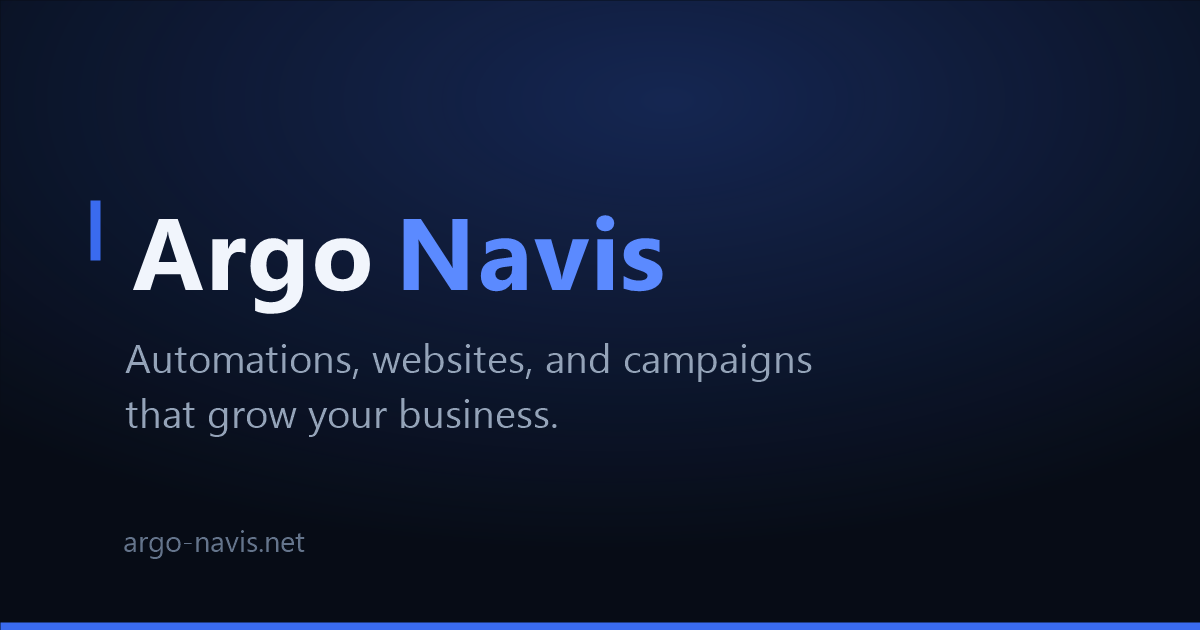
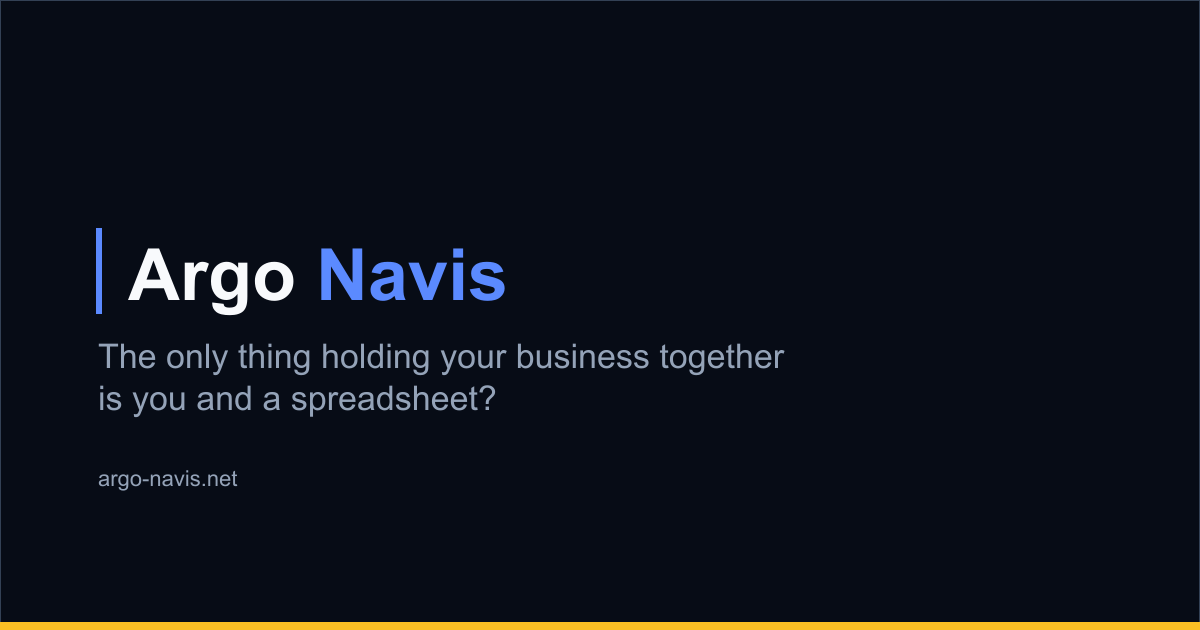
fix: LP hreflang, styleguide sitemap exclusion, real og-image, launch fixes
Two required launch-verification fixes: LandingLayout now emits
en/he/x-default hreflang alternates (was emitting none, affecting all
8 indexed LP pages); /styleguide excluded from the sitemap via the
sitemap integration's filter (was listed despite being noindexed
on-page).

Real public/og-image.png (1200x630), replacing the placeholder -
authored as SVG and rasterized with sharp, using the site's own
tokens and the actual final hero headline as its tagline.

Ship-scoped sharpening pass (audit+critique across homepage EN/HE, a
service page, an LP, and a case study EN/HE, both themes):

- Critical: the contact form's Turnstile gating required a challenge
  token even when no site key was configured to produce one -
  potentially blocking every lead on the site. Both the client
  (ContactForm.astro) and server (api/leads.ts) now only require
  verification when a site key/secret actually exists.
- High: contact-details input had no accessible label; added one.
  API error messages are now bilingual (EN/HE) via the source tag,
  matching the email templates' existing localization.
- Medium: form-error text and two prose/link spots had unguarded
  text-brand-400/text-red-400 failing WCAG AA in light theme (same
  fixed-hex-in-one-theme pattern already fixed elsewhere); two
  interactive elements on surface-900 backgrounds were missing the
  focus-ring-on-900 offset modifier; form success/error regions
  lacked ARIA live-region roles.
[…]

diff --git a/src/pages/api/leads.ts b/src/pages/api/leads.ts
@@ -42,15 +42,27 @@ export const POST: APIRoute = async ({ request }) => {
   const { name, email, website, message, source = "landing", contact_method: contactMethod, contact_details: contactDetails } = body;
   const turnstileToken = body["cf-turnstile-response"] ?? body.turnstileToken;
   const turnstileSecret = env.TURNSTILE_SECRET_KEY;
-  const isProd = import.meta.env.PROD; 
+  const isProd = import.meta.env.PROD;
+  const hebrewSource = isHebrew(source);
+  /* Bilingual error string — `en`/`he` pair, picked by the lead's own source tag. */
+  const t = (en: string, he: string) => (hebrewSource ? he : en);
 
+  /*
+    Launch audit fix (Task 4.1, Critical): this used to hard-fail every
+    submission whenever TURNSTILE_SECRET_KEY was unset (500 here) or
+    unset-but-required (400 below) — meaning a missed Cloudflare Pages
+    env var silently killed every lead on the site, not just bot
+    protection. Now: verification only runs (and is only required) when
+    a secret is actually configured; a missing secret degrades to "no
+    bot check" instead of "no submissions possible." Mirrors the
+    matching client-side fix in ContactForm.astro.
+  */
   if (isProd && !turnstileSecret) {
-    console.error("TURNSTILE_SECRET_KEY is missing in production.");
-    return json({ error: "Security verification is unavailable. Please try again later." }, 500);
+    console.error("TURNSTILE_SECRET_KEY is missing in production — bot-check is disabled until it's configured.");
   }
 
-  if (isProd && !turnstileToken) {
-    return json({ error: "Please complete the verification challenge." }, 400);
+  if (isProd && turnstileSecret && !turnstileToken) {
+    return json({ error: t("Please complete the verification challenge.", "יש להשלים את אימות האבטחה.") }, 400);
   }
 
   if (turnstileSecret && turnstileToken) {
@@ -61,20 +73,18 @@ export const POST: APIRoute = async ({ request }) => {
     );
 
     if (!turnstileRes.success) {
-      return json({ error: "Verification failed. Please try again." }, 400);
+      return json({ error: t("Verification failed. Please try again.", "האימות נכשל. נסו שוב.") }, 400);
     }
-  } else if (isProd) {
-    return json({ error: "Please complete the verification challenge." }, 400);
   }
 
   /* ── Basic validation ── */
-  if (!name?.trim())    return json({ error: "Name is required." }, 400);
-  if (!email?.trim())   return json({ error: "Email is required." }, 400);
-  if (!message?.trim()) return json({ error: "Please tell us what you need." }, 400);
+  if (!name?.trim())    return json({ error: t("Name is required.", "יש להזין שם.") }, 400);
+  if (!email?.trim())   return json({ error: t("Email is required.", "יש להזין כתובת אימייל.") }, 400);
+  if (!message?.trim()) return json({ error: t("Please tell us what you need.", "ספרו לנו במה אתם צריכים עזרה.") }, 400);
 
   const emailValue = email.trim();
   const emailValid = /^[^\s@]+@[^\s@]+\.[^\s@]+$/.test(emailValue);
-  if (!emailValid) return json({ error: "Please enter a valid email." }, 400);
+  if (!emailValid) return json({ error: t("Please enter a valid email.", "יש להזין כתובת אימייל תקינה.") }, 400);
 
   const allowedContactMethods = new Set(["whatsapp", "telegram", "phone", "email"]);
   const preferredContactMethod = allowedContactMethods.has((contactMethod || "").trim())
@@ -82,7 +92,7 @@ export const POST: APIRoute = async ({ request }) => {
     : "email";
   const normalizedContactDetails = contactDetails?.trim() || null;
   if (preferredContactMethod !== "email" && !normalizedContactDetails) {
-    return json({ error: "Please provide your contact details for the selected method." }, 400);
+    return json({ error: t("Please provide your contact details for the selected method.", "יש להזין פרטי יצירת קשר עבור אמצעי הקשר שנבחר.") }, 400);
   }
 
   /*
@@ -112,12 +122,12 @@ export const POST: APIRoute = async ({ request }) => {
 
   if (insertErrorMessage) {
     console.error("Supabase insert error:", insertErrorMessage);
-    return json({ error: "Could not save your message. Please try again." }, 500);
+    return json({ error: t("Could not save your message. Please try again.", "לא הצלחנו לשמור את ההודעה. נסו שוב.") }, 500);
   }
 
   /* ── Send emails via Resend ── */
   const resendKey = env.RESEND_API_KEY;
-  const hebrew = isHebrew(source);
+  const hebrew = hebrewSource;
 
   if (resendKey) {
     try {

diff --git a/src/styles/global.css b/src/styles/global.css
@@ -435,6 +435,19 @@ html[data-theme="light"] .chip-accent-text:hover {
 html[data-theme="light"] .showcase-prose a {
   color: var(--color-brand-700);
 }
+/*
+  Launch audit fix (Task 4.1): same specificity bug already fixed for
+  `.chip-accent-text` — `html[data-theme="light"] .showcase-prose a`
+  (specificity 0-2-2) outranks the plain `.showcase-prose a:hover`
+  utility (0-2-1) regardless of source order, so hover was silently
+  dead in light theme. Not visible on any page today (no case study
+  currently has an inline link inside its prose body), but latent —
+  the next copy edit that adds one would inherit it silently. Fixed
+  pre-emptively, same pattern as `.chip-accent-text:hover` above.
+*/
+html[data-theme="light"] .showcase-prose a:hover {
+  color: var(--color-brand-800);
+}
 .showcase-prose code {
   @apply rounded-xs bg-surface-900 px-1 py-0.5 font-mono text-xs;
 }
@@ -445,6 +458,19 @@ html[data-theme="light"] .showcase-prose a {
 }
 .input {
   @apply w-full border-b border-border-subtle bg-transparent px-0 py-3 text-sm text-text-primary transition-colors duration-150 placeholder:text-text-muted/70 focus:border-brand-500 focus:outline-none;
+}
+/*
+  Form error text (launch audit fix, Task 4.1) — was a bare
+  `text-red-400` utility, checked only against dark theme
+  (~7.15:1). Against light theme's surface (~2.65:1) it fails AA —
+  same fixed-hex-only-checked-in-one-theme bug already fixed for
+  badges/chips/prose links; this one spot was missed.
+*/
+.form-error-text {
+  @apply text-red-400;
+}
+html[data-theme="light"] .form-error-text {
+  color: var(--color-red-700);
 }
 
 /*
